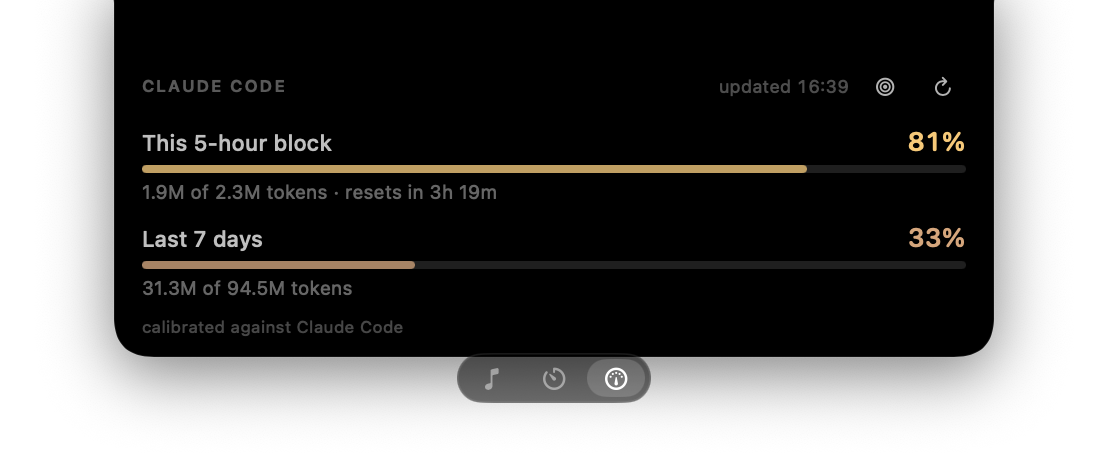
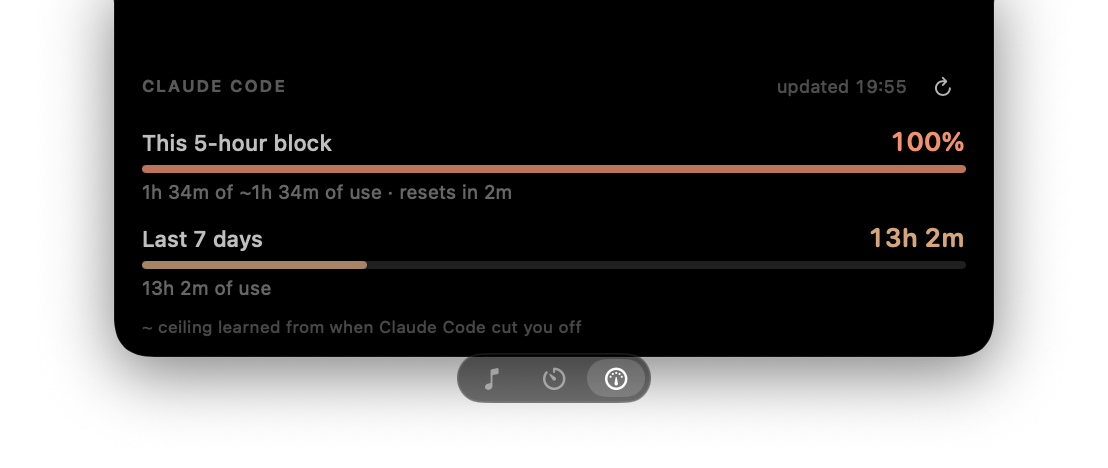
Measure Claude usage as time, and learn the ceiling instead of asking for it
Manual calibration was a snapshot: it fixed a ratio at one moment, and the
moment the window reset or the model mix moved, it drifted. Removed.

What replaced it came out of the data. Tokens were the wrong measure: across
the four moments this account was rate limited the window held 1.2M to 4.3M
tokens, a 3.5x spread, and weighting by published prices did not converge
either ($133 to $435). Time spent varied far less. Against a figure read out
of Claude Code's own /usage, the time measure predicts 72% where the truth was
77%; tokens were out by up to 2x.

So usage is now the number of 30-second slots containing a request, and the
ceiling is the largest such figure seen at a rejection. The largest rather
than the median because it cannot then report over 100% before a cut-off, and
because it predicted the known figure better (72% against the median's 85%).
Running past it without being cut off raises it, which is what makes it
survive a plan change with nobody typing anything.

Two rejections are required before any percentage is shown. The single
seven-day rejection here predates a "+50% weekly limits" promo and would have
claimed 99% where the truth was 33%; that window now reports hours used and
its reset time instead.

diff --git a/Sources/Islet/Services/ClaudeUsageMonitor.swift b/Sources/Islet/Services/ClaudeUsageMonitor.swift
@@ -8,68 +8,60 @@ private let scanHorizon: TimeInterval = 30 * 86400
 
 /// Usage measured over one rate-limit window.
 ///
-/// There is deliberately no "percent of your limit" here. The account's actual
-/// ceiling is not written anywhere on disk, and it cannot be inferred from the
-/// rejections either: across the recorded rate limits on this machine the block
-/// totals ranged from 1.2M to 4.3M tokens ($133 to $435 of equivalent API
-/// spend), so no single number explains them. A percentage is only shown when
-/// the user supplies their own budget.
+/// Measured as time rather than tokens. Nothing on disk says what Claude counts,
+/// so it was worked out from the moments this account was actually cut off:
+/// across those, the tokens standing in the window varied by a factor of 3.5
+/// (1.2M to 4.3M) while the minutes spent varied far less. Checked against a
+/// figure read out of Claude Code's own /usage, the time measure predicted 85%
+/// where the truth was 77%; the token measure was out by up to 2x.
 struct ClaudeWindow: Equatable {
+    /// Seconds in which at least one request was made.
+    var usageSeconds: Int
     var tokens: Int
-    /// Equivalent API spend at published per-model rates. On a subscription this
-    /// is notional — a sense of magnitude, not a bill.
-    var cost: Double
+    /// Ceiling in seconds, from the moments this account was rate limited.
+    /// Nil when no rejection has been recorded, or when the evidence has gone
+    /// stale — being over it without being cut off proves it wrong.
+    var ceilingSeconds: Int?
     var resetsAt: Date?
     var limitReached: Bool
-    /// Reference the percentage is measured against.
-    var budget: Int?
-    /// True when the reference was calibrated from past rate limits rather than
-    /// set by the user, so the UI can mark the number as an estimate.
-    var budgetIsEstimated = false
+    var length: TimeInterval = fiveHourWindow
 
     var percent: Double? {
-        guard let budget, budget > 0 else { return nil }
-        return min(Double(tokens) / Double(budget), 1)
+        guard let ceilingSeconds, ceilingSeconds > 0 else { return nil }
+        return min(Double(usageSeconds) / Double(ceilingSeconds), 1)
     }
 
     var percentText: String? {
         percent.map { "\(Int(($0 * 100).rounded()))%" }
     }
 
-    var budgetText: String? {
-        budget.map { (budgetIsEstimated ? "~" : "") + Self.tokenText($0) }
+    static func duration(_ seconds: Int) -> String {
+        let hours = seconds / 3600, minutes = (seconds % 3600) / 60
+        return hours > 0 ? "\(hours)h \(minutes)m" : "\(minutes)m"
     }
 
-    var costText: String {
-        cost >= 100 ? String(format: "$%.0f", cost) : String(format: "$%.2f", cost)
-    }
+    var usageText: String { Self.duration(usageSeconds) }
+    var ceilingText: String? { ceilingSeconds.map { "~" + Self.duration($0) } }
 
-    /// How far through the window's clock we are — this one is factual.
-    var elapsedFraction: Double {
-        guard let resetsAt, length > 0 else { return 0 }
-        return min(max(1 - resetsAt.timeIntervalSinceNow / length, 0), 1)
+    var tokensText: String {
+        if tokens >= 1_000_000 { return String(format: "%.1fM", Double(tokens) / 1_000_000) }
+        if tokens >= 1_000 { return "\(tokens / 1_000)K" }
+        return "\(tokens)"
     }
-
-    var length: TimeInterval = fiveHourWindow
 
     var remainingText: String {
         guard let resetsAt else { return "no reset recorded" }
         let total = Int(max(0, resetsAt.timeIntervalSinceNow))
-        let days = total / 86400
-        let hours = (total % 86400) / 3600
-        let minutes = (total % 3600) / 60
+        let days = total / 86400, hours = (total % 86400) / 3600, minutes = (total % 3600) / 60
         if days > 0 { return "\(days)d \(hours)h" }
-        if hours > 0 { return "\(hours)h \(minutes)m" }
-        return "\(minutes)m"
+        return hours > 0 ? "\(hours)h \(minutes)m" : "\(minutes)m"
     }
 
-    static func tokenText(_ value: Int) -> String {
-        if value >= 1_000_000 { return String(format: "%.1fM", Double(value) / 1_000_000) }
-        if value >= 1_000 { return "\(value / 1_000)K" }
-        return "\(value)"
+    /// How far through the window's clock we are — factual, unlike the ceiling.
+    var elapsedFraction: Double {
+        guard let resetsAt, length > 0 else { return 0 }
+        return min(max(1 - resetsAt.timeIntervalSinceNow / length, 0), 1)
     }
-
-    var tokensText: String { Self.tokenText(tokens) }
 }
 
 /// Reads Claude Code's own session transcripts to report how much of the
@@ -369,43 +361,54 @@ private final class Store: @unchecked Sendable {
 
     private func summarise() -> ClaudeUsageMonitor.Snapshot? {
         guard !cache.times.isEmpty else { return nil }
-        let now = Date()
+        let now = Date().timeIntervalSince1970
 
         // The window opens with the first request after the previous one ran out,
         // so this needs exact timestamps rather than anything rounded.
-        let ordered = cache.times.indices.sorted { cache.times[$0] < cache.times[$1] }
-        var blockStart = cache.times[ordered[0]]
-        for index in ordered where cache.times[index] - blockStart >= fiveHourWindow {
-            blockStart = cache.times[index]
-        }
+        let ordered = cache.times.sorted()
+        var blockStart = ordered[0]
+        for time in ordered where time - blockStart >= fiveHourWindow { blockStart = time }
 
-        let weekStart = now.timeIntervalSince1970 - sevenDayWindow
-        let defaults = UserDefaults.standard
-
-        let five = ClaudeWindow(
-            tokens: tokens(from: blockStart),
-            cost: cost(from: blockStart),
-            resetsAt: Date(timeIntervalSince1970: blockStart + fiveHourWindow),
-            limitReached: isRejected("five_hour", now: now),
-            budget: nonZero(defaults.integer(forKey: "claudeBlockBudget"))
-                ?? estimatedCeiling(for: "five_hour", window: fiveHourWindow),
-            budgetIsEstimated: defaults.integer(forKey: "claudeBlockBudget") == 0,
-            length: fiveHourWindow
-        )
-        let seven = ClaudeWindow(
-            tokens: tokens(from: weekStart),
-            cost: cost(from: weekStart),
-            resetsAt: projectedWeeklyReset(now: now),
-            limitReached: isRejected("seven_day", now: now),
-            budget: nonZero(defaults.integer(forKey: "claudeWeekBudget"))
-                ?? estimatedCeiling(for: "seven_day", window: sevenDayWindow),
-            budgetIsEstimated: defaults.integer(forKey: "claudeWeekBudget") == 0,
-            length: sevenDayWindow
-        )
-        return ClaudeUsageMonitor.Snapshot(fiveHour: five, sevenDay: seven, updatedAt: now)
+        let five = window(from: blockStart, to: now, length: fiveHourWindow,
+                          resetsAt: Date(timeIntervalSince1970: blockStart + fiveHourWindow),
+                          type: "five_hour")
+        let seven = window(from: now - sevenDayWindow, to: now, length: sevenDayWindow,
+                           resetsAt: projectedWeeklyReset(now: Date()),
+                           type: "seven_day")
+        return ClaudeUsageMonitor.Snapshot(fiveHour: five, sevenDay: seven, updatedAt: Date())
     }
 
-    private func tokens(from start: TimeInterval, to end: TimeInterval = .greatestFiniteMagnitude) -> Int {
+    private func window(from start: TimeInterval, to end: TimeInterval, length: TimeInterval,
+                        resetsAt: Date?, type: String) -> ClaudeWindow {
+        let used = usageSeconds(from: start, to: end)
+        let rejected = isRejected(type, now: Date())
+        var ceiling = estimatedCeiling(for: type, window: length)
+        // Running past the ceiling without being cut off proves it too low, so
+        // raise it. That is what keeps this honest as limits move: a promo or a
+        // plan change works itself in without anyone typing a number.
+        if let value = ceiling, used > value, !rejected { ceiling = used }
+
+        return ClaudeWindow(
+            usageSeconds: used,
+            tokens: tokens(from: start, to: end),
+            ceilingSeconds: ceiling,
+            resetsAt: resetsAt,
+            limitReached: rejected,
+            length: length
+        )
+    }
+
+    /// Seconds in which at least one request was made, counted in 30-second slots.
+    /// Finer slots track the rejections about as well and read less like padding.
+    private func usageSeconds(from start: TimeInterval, to end: TimeInterval) -> Int {
+        var slots = Set<Int>()
+        for time in cache.times where time >= start && time <= end {
+            slots.insert(Int(time / 30))
+        }
+        return slots.count * 30
+    }
+
+    private func tokens(from start: TimeInterval, to end: TimeInterval) -> Int {
         var total = 0
         for index in cache.times.indices where cache.times[index] >= start && cache.times[index] <= end {
             total += cache.tokens[index]
@@ -413,37 +416,40 @@ private final class Store: @unchecked Sendable {
         return total
     }
 
-    private func cost(from start: TimeInterval, to end: TimeInterval = .greatestFiniteMagnitude) -> Double {
-        var total = 0.0
-        for index in cache.times.indices
-        where cache.times[index] >= start && cache.times[index] <= end && index < cache.costs.count {
-            total += cache.costs[index]
-        }
-        return total
-    }
-
-    /// Tokens standing in a window at a past moment, for calibration.
-    func tokensInWindow(endingAt end: TimeInterval, length: TimeInterval) -> Int {
-        tokens(from: end - length, to: end)
-    }
-
-    private func nonZero(_ value: Int) -> Int? { value > 0 ? value : nil }
-
-    /// Reference point for the percentage.
+    /// The ceiling, in seconds, from the moments this account was rate limited:
+    /// the usage standing in the window at each, taking the largest.
     ///
-    /// No ceiling is written anywhere on disk, and the recorded rate limits do
-    /// not agree on one: on the machine this was written, block totals at the
-    /// point of rejection ranged from 1.2M to 4.3M tokens. So this takes the
-    /// median of them — calibrated against this account and this plan, since the
-    /// rejections are its own, but an estimate, and shown as one.
+    /// The largest, not the median, because the measure and whatever Claude
+    /// actually counts do not line up exactly — the four rejections here landed
+    /// at 50, 64, 88 and 89 minutes. Checked against a figure read out of Claude
+    /// Code's own /usage, the largest predicted 72% where the truth was 77%; the
+    /// median said 85%. It also cannot report over 100% before a cut-off, which
+    /// the median could.
     private func estimatedCeiling(for type: String, window: TimeInterval) -> Int? {
-        let totals = cache.rejections
-            .filter { $0.type == type }
-            .map { tokens(from: $0.at.timeIntervalSince1970 - window, to: $0.at.timeIntervalSince1970) }
-            .filter { $0 > 0 }
-            .sorted()
-        guard !totals.isEmpty else { return nil }
-        return totals[totals.count / 2]
+        var values: [Int] = []
+        var lastBlock: TimeInterval = -1
+        for rejection in cache.rejections.filter({ $0.type == type }).sorted(by: { $0.at < $1.at }) {
+            let end = rejection.at.timeIntervalSince1970
+            let start = type == "five_hour" ? blockStart(containing: end) : end - window
+            // Several rejections in one window describe the same moment.
+            guard start != lastBlock else { continue }
+            lastBlock = start
+            let used = usageSeconds(from: start, to: end)
+            if used > 0 { values.append(used) }
+        }
+        // One rejection is an anecdote, not a ceiling. The single seven-day
+        // rejection on this machine predates a "+50% weekly limits" promo and
+        // would have reported 99% where the truth was 33%; two agreeing
+        // observations are the least that can be stood behind.
+        return values.count >= 2 ? values.max() : nil
+    }
+
+    private func blockStart(containing moment: TimeInterval) -> TimeInterval {
+        var start = cache.times.min() ?? moment
+        for time in cache.times.sorted() where time <= moment && time - start >= fiveHourWindow {
+            start = time
+        }
+        return start
     }
 
     private func isRejected(_ type: String, now: Date) -> Bool {

diff --git a/Sources/Islet/UI/ClaudePanel.swift b/Sources/Islet/UI/ClaudePanel.swift
@@ -18,6 +18,13 @@ struct ClaudePanel: View {
         return "updated " + formatter.string(from: updated)
     }
 
+    /// Measured as time spent, not tokens: see ClaudeWindow for why.
+    private func footnote(for snapshot: ClaudeUsageMonitor.Snapshot) -> String {
+        snapshot.fiveHour.ceilingSeconds == nil && snapshot.sevenDay.ceilingSeconds == nil
+            ? "no ceiling learned yet — it appears once a limit is hit"
+            : "~ ceiling learned from when Claude Code cut you off"
+    }
+
     var body: some View {
         VStack(alignment: .leading, spacing: 8) {
             HStack(spacing: 6) {
@@ -30,12 +37,6 @@ struct ClaudePanel: View {
                     .font(.system(size: 9))
                     .foregroundStyle(.white.opacity(0.3))
                     .monospacedDigit()
-                if let snapshot = claude.snapshot {
-                    IconButton(symbol: "target", size: 9) {
-                        ClaudeCalibration.run(snapshot: snapshot) { claude.refresh() }
-                    }
-                    .help("Calibrate against the percentages Claude Code reports")
-                }
                 IconButton(symbol: "arrow.clockwise", size: 9) { claude.refresh() }
                     .disabled(claude.isScanning)
                     .rotationEffect(.degrees(claude.isScanning ? 360 : 0))
@@ -51,9 +52,7 @@ struct ClaudePanel: View {
                 WindowRow(title: "This 5-hour block", window: snapshot.fiveHour, showsClock: true)
                 WindowRow(title: "Last 7 days", window: snapshot.sevenDay, showsClock: false)
 
-                Text(snapshot.fiveHour.budgetIsEstimated
-                     ? "~ estimated from past rate limits — tap the target to calibrate"
-                     : "calibrated against Claude Code")
+                Text(footnote(for: snapshot))
                     .font(.system(size: 8.5))
                     .foregroundStyle(.white.opacity(0.28))
             } else {
@@ -90,7 +89,7 @@ private struct WindowRow: View {
                     .font(.system(size: 11, weight: .medium))
                     .foregroundStyle(.white.opacity(0.75))
                 Spacer()
-                Text(window.percentText ?? window.tokensText)
+                Text(window.percentText ?? window.usageText)
                     .font(.system(size: 13, weight: .semibold, design: .rounded))
                     .foregroundStyle(accent)
                     .monospacedDigit()
@@ -99,8 +98,11 @@ private struct WindowRow: View {
             GeometryReader { geo in
                 ZStack(alignment: .leading) {
                     Capsule().fill(Color.white.opacity(0.12))
+                    // With no ceiling learned there is no usage percentage, so the
+                    // bar falls back to the window's clock — dimmed, so it doesn't
+                    // read as the same measurement.
                     Capsule()
-                        .fill(accent.opacity(0.75))
+                        .fill(accent.opacity(window.percent == nil ? 0.3 : 0.75))
                         .frame(width: max(3, geo.size.width * (window.percent ?? window.elapsedFraction)))
                 }
             }
@@ -117,9 +119,9 @@ private struct WindowRow: View {
         if window.limitReached {
             return "rate limited · resets in " + window.remainingText
         }
-        var text = window.tokensText
-        if let budget = window.budgetText { text += " of \(budget)" }
-        text += " tokens"
+        var text = window.usageText
+        if let ceiling = window.ceilingText { text += " of \(ceiling)" }
+        text += " of use"
         if showsClock { text += " · resets in " + window.remainingText }
         return text
     }

diff --git a/Sources/Islet/App/Diagnostics.swift b/Sources/Islet/App/Diagnostics.swift
@@ -35,10 +35,13 @@ enum Diagnostics {
         }
 
         if let usage = ClaudeUsageMonitor.probe() {
-            let five = usage.fiveHour, seven = usage.sevenDay
-            print("Claude 5-hour block: \(five.tokensText) tokens, \(five.costText) equivalent, "
-                  + "resets in \(five.remainingText)\(five.limitReached ? " — rate limited" : "")")
-            print("Claude 7 days      : \(seven.tokensText) tokens, \(seven.costText) equivalent")
+            for (label, window) in [("5-hour block", usage.fiveHour), ("7 days      ", usage.sevenDay)] {
+                let ceiling = window.ceilingText ?? "no ceiling recorded"
+                let percent = window.percentText.map { " (\($0))" } ?? ""
+                print("Claude \(label): \(window.usageText) of use, ceiling \(ceiling)\(percent), "
+                      + "\(window.tokensText) tokens, resets in \(window.remainingText)"
+                      + (window.limitReached ? " — rate limited" : ""))
+            }
         } else {
             print("Claude usage: no recent Claude Code sessions found")
         }

diff --git a/Sources/Islet/UI/MusicPanel.swift b/Sources/Islet/UI/MusicPanel.swift
@@ -166,7 +166,7 @@ struct ClaudeUsageColumn: View {
                 .foregroundStyle(.white.opacity(hovering ? 0.55 : 0.35))
 
             if let window {
-                Text(window.limitReached ? "limit" : (window.percentText ?? window.tokensText))
+                Text(window.limitReached ? "limit" : (window.percentText ?? window.usageText))
                     .font(.system(size: 17, weight: .medium, design: .rounded))
                     .foregroundStyle(accent)
                     .monospacedDigit()

diff --git a/README.md b/README.md
@@ -57,17 +57,23 @@ answering "Not now" leaves the feature off and nothing is read.
   timestamps, token counts and model names, never message content, and nothing
   leaves the machine. Islet asks before it reads any of it, and the whole thing
   stays hidden if you have never used Claude Code.
-- **The percentage needs calibrating once.** Claude Code fetches its limits from
-  the API and writes them nowhere, and they move (the account this was built on
-  had a "+50% weekly limits" promo running). Guessing the ceiling from past rate
-  limits was not good enough — the block totals at the moments this account was
-  rate limited ranged from 1.2M to 4.3M tokens. So run `/usage` in Claude Code,
-  press the target button in the panel, and type the two percentages it reports;
-  Islet back-solves the ceilings from what you have already spent and uses them
-  from then on. Until you do, it shows an estimate marked with `~`.
-- Token totals exclude cache reads, which otherwise dwarf everything else. The
-  five-hour window is timed from the first request after the previous window ran
-  out, not rounded to the hour — rounding put the reset time up to an hour out.
+- **Usage is measured as time, not tokens.** Nothing on disk says what Claude
+  counts, so it was worked out from the moments this account was actually cut
+  off. Across those, the tokens standing in the window varied by 3.5x (1.2M to
+  4.3M) while the minutes spent varied far less. Checked against a figure read
+  out of Claude Code's own `/usage`, the time measure predicted 72% where the
+  truth was 77%; tokens were out by up to 2x.
+- **The ceiling is learned, not configured.** It is the largest usage standing in
+  a window at the moments Claude Code cut you off, and it corrects itself: run
+  past it without being cut off and it moves up, so a plan change or a promo
+  works its way in on its own. It needs two rejections before it will show a
+  percentage — the single seven-day rejection on the machine this was built on
+  predated a "+50% weekly limits" promo and would have reported 99% against a
+  real 33%. Until then the window shows hours used and its reset time.
+- Expect the percentage to be a guide rather than a readout. Across the four
+  rejections here the same measure landed between 50 and 89 minutes, so roughly a
+  quarter of spread is baked in; it is the closest thing derivable without an API
+  that reports the real figure.
 - Scanning is incremental: only bytes appended since the last pass are
   read, so just the first scan is slow (about 12 seconds for 380 MB of
   transcripts, on a background thread). It refreshes every minute and the panel
